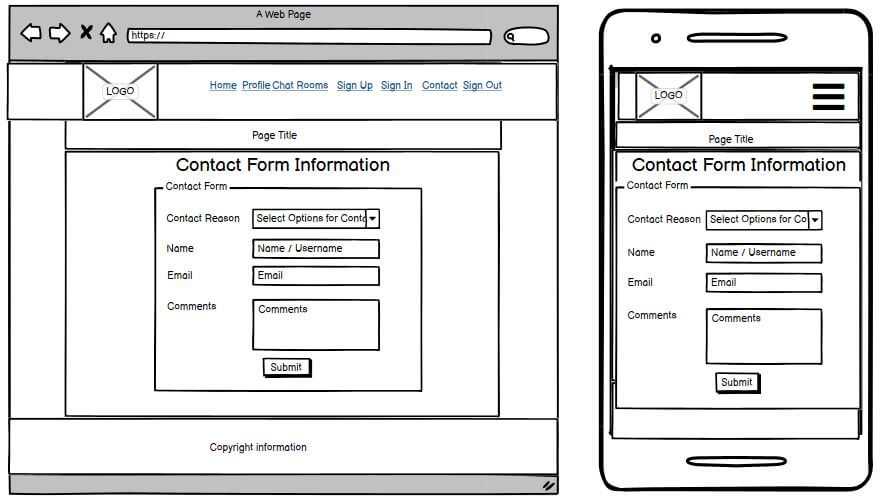
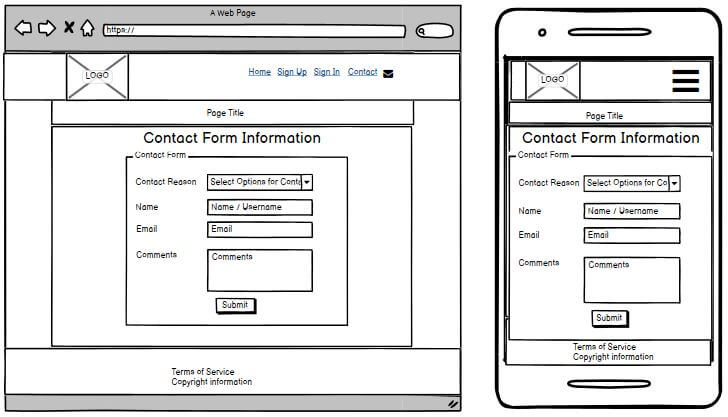
Documentation: Updated readme and added images

diff --git a/templates/500.html b/templates/500.html
@@ -8,7 +8,6 @@
                 <p class="main-text">Whoops, looks like something went wrong.<br>
                     Click <a class="anchors" href="{% url 'home' %}">here</a> to return to the main site.
                 </p>
-                <img src="{{ MEDIA_URL }}500.png" alt="500 image" id="error-img" class="img-fluid">
             </div>
         </div>
     </main>

diff --git a/README.md b/README.md
@@ -1,6 +1,7 @@
 # Chat To The Mat
 Chat To The Mat is an online chat service where users can create online friendships. A premium subscription service 
-is available to users that allows access to our 'Gold Rooms' and enables the private messaging functionality. The live website can be found [here](https://chat-to-the-mat.herokuapp.com/).
+is available to users that allows access to our 'Gold Rooms' and enables the private messaging functionality. The live website can be found [here](https://chat-to-the-mat.herokuapp.com/).<br>
+![Mockup](readme_images/mockup.png)
 
 ## Table of Contents
 * [User Experience Design (UX)](#User-Experience-Design)
@@ -18,7 +19,6 @@ is available to users that allows access to our 'Gold Rooms' and enables the pri
             * [Colour Scheme](#Colour-Scheme)
             * [Typography](#Typography)
             * [Imagery](#Imagery)
-    * [Differences to Design](#Differences-to-Design)
 - [Features](#Features)
     * [Existing Features](#Existing-Features)
     * [Future Features](#Features-Left-to-Implement)
@@ -26,7 +26,6 @@ is available to users that allows access to our 'Gold Rooms' and enables the pri
 * [Testing](#Testing)
     * [Test Strategy](#Test-Strategy)
     * [Test Results](#Test-Results)
-    * [Isses and Resolutions](#Issues-and-Resolutions-to-issues-found-during-testing)
 * [Deployment](#Deployment)
     * [Project Creation](#Project-Creation)
     * [Heroku Deployment](#Deployment-To-Heroku)
@@ -70,6 +69,7 @@ features and areas of the site that are available once a paid subscription has b
 * As a premium user, I want to be able to private chat with other members so that I can gain deeper friendships with selected users.
 * As a premium user, I want to be able to access other areas that are not available to non subscription members.
 * As a premium user, I want to be able to customize my profile with my own personal images so that I stand out.
+
 
 ### **The Scope Plane**
 
@@ -128,6 +128,8 @@ When a user is logged in, 'Profile', 'Chat Rooms' and 'Sign Out' navigation item
 
 Chat Rooms navigation link will be a drop down list with the chat room channels.
 
+A font awesome mail icon will be displayed to logged in users in order for them to access private messages they receive. If the user does not have a premium subscription, they will be redirected to the checkout.
+
 User Story:
 
 > As a user, I want to be able to chat with other users in the chatroom in a safe and moderated environment.
@@ -135,13 +137,17 @@ User Story:
 Acceptance Criteria:
 * Chat rooms for users to have conversations with other users.
 * Functionality to allow moderators to remove messages and ban users who break the terms of service.
+* Only admin users should be able to see the custom admin panel.
 
 Implementation:
 
 Chat rooms will be implemented with a form control to send messages. These chats will be stored in databases with 
 a maximum limit of 21. Once the limit is reached, the oldest message on the chat should be deleted.
 
-Admin users should have access to remove messages that make break the terms of service and the ability to ban users.
+Admin users should have access to remove messages that make break the terms of service directly from the chatroom, this can be done by clicking the X beside the chat message.
+
+Admin users will have the ability to ban users by navigating to the admin panel from their profile page and selecting the user from the list. 
+
 
 User Story:
 
@@ -167,7 +173,7 @@ Implementation:
 
 A contact page will be implemented with a form to allow users to contact staff. The form should clearly display if submission was successful or failed to send. 
 
-This will contain a drop down asking for the reason of contact. The options will be:
+The contact form will contain a drop down asking for the reason of contact. The options will be:
 * Breach of TOS
 * General Query
 * Technical Issue
@@ -177,7 +183,6 @@ Other fields will be:
 * Name (Username or Name)
 * Email
 * Comments
-
 
 User Story:
 
@@ -194,14 +199,14 @@ A profile page will be implemented that allows the user to update their informat
 * Name
 * Location
 * Bio
+* Img Url (For premium users only)
 
 These fields are optional if the user wants to update them. Once updated they will display to other users who view their profile.
 If the user is logged in and it is their own profile (accessed via the profile tab), a form will be displayed to allow the user 
 to update their profile. There will also be a button displayed to allow the user to delete their profile. This deletion will be 
 permanent so a warning must be displayed to the user that allows them to either cancel or delete the account.
 
-Users can view ther users profiles by clicking the users name on the chat room application. They should not have access to update 
-or delete that users profile.
+Users can view another users profiles by clicking the users name on the chat room application. They can view their own by either clicking the profile navigation or clicking their name directly from a chat room. Users should not have access to update or delete that users profile.
 
 User Story:
 
@@ -212,7 +217,7 @@ Acceptance Criteria:
 * Users who have not purchased a subscription should not be able to private message other users.
 
 Implementation:
-Private messaging functionality will be implemented to allow users with a premium subscription to message other premium users.
+Private messaging functionality will be implemented to allow users with a premium subscription to access the private messaging page to send or view messages.
 
 User Story:
 
@@ -226,39 +231,56 @@ Implementation:
 
 Non premium sucscription members will have access to two chat rooms, General Chat and Sports Chat.
 
-Premium subscription members will have access to 6 premium chat rooms.
+Premium subscription members will have access to view messages in premium chat rooms.
 
 User Story:
 
 > As a premium user, I want to be able to customize my profile with my own personal images so that I stand out.
 
 Acceptance Criteria:
-* Users who have purchased a subscription can upload profile pictures.
-* Users who have not purchased a subscription cannot upload profile pictures.
+* Users who have purchased a subscription can add custom profile pictures.
+* Users who have not purchased a subscription cannot upload profile pictures and will have a default picture.
 
 Implementation:
 
-Users who have a premium subscription will be able to upload their own profile pictures.
+Users who have a premium subscription will be able to add a url to display a profile picture of their own choice on the edit profile page.
+
 
 ### **The Skeleton Plane**
 #### Wireframes
-Home Page:<br>
+Home:<br>
 ![Home](readme_images/wireframes/home.jpg)<br>
 
-Contct Page:<br>
+Contct:<br>
 ![Contact](readme_images/wireframes/contact.jpg)<br>
 
 Profile:<br>
-Users own profile:<br>
-![User Profile](readme_images/wireframes/profile_user.jpg)<br>
-Profile to other users:<br>
-![User Profile](readme_images/wireframes/profile_non_user.jpg)<br>
+![User Profile](readme_images/wireframes/profile.jpg)<br>
+
+Edit Profile:<br>
+![Edit Profile](readme_images/wireframes/edit-profile.jpg)<br>
+
+Admin Panel:<br>
+![Admin panel](readme_images/wireframes/admin-panel.jpg)<br>
 
 Chat Rooms:<br>
-![Chat Rooms](readme_images/wireframes/chat_rooms.jpg)<br>
+![Chat Rooms](readme_images/wireframes/chat-rooms.jpg)<br>
+
+Checkout:<br>
+![Checkout](readme_images/wireframes/checkout.jpg)<br>
+
+Checkout Success:<br>
+![Checkout Success](readme_images/wireframes/checkout-success.jpg)<br>
+
+Sign In:<br>
+![Sign In](readme_images/wireframes/signin.jpg)<br>
+
+Chat Rooms:<br>
+![Sign Out](readme_images/wireframes/signout.jpg)<br>
 
 #### Database Design
-
+ER Diagram
+![ER Diagram](readme_images\er_diagram.png)
 
 #### Security 
 
@@ -267,17 +289,17 @@ Chat Rooms:<br>
 ### Design
 
 #### Colour Scheme
-
+The header and footer background colour is #353535. ![Header & Footer](readme_images/header-footer.png)<br>
+The main content background colour is #1b1b1b. ![Background](readme_images/background.png)<br>
+The heading text and anchor link colour throughout the website is #ff914d. ![Header & Link Text](readme_images/headings.png)<br>
+The main text colour is #eeeee7. ![Main text](readme_images/main-text.png)<br>
 
 #### Typography
-The main heading on all pages use the 'Orbitron' font while the 
+The headings on all pages use the 'Orbitron' font while the 
 rest of the websites content uses the 'Roboto' font.
 
 #### Imagery
-
-
-## Differences to Design
-
+Premium users custom profile pictures are added by url and rendered into an image tag. I do not own these images and did not upload them into the site.
 
 ****
 ## Features
@@ -300,6 +322,40 @@ rest of the websites content uses the 'Roboto' font.
     * This project was created using Python framework [Django](https://www.djangoproject.com/) following Model-View-Template design and 
     Object Relational Mapping.
     * Python Modules used (These can be found in the requirements.txt project file):
+        * asgiref==3.3.1
+        * autopep8==1.5.5
+        * boto3==1.16.59
+        * botocore==1.19.59
+        * certifi==2020.12.5
+        * cffi==1.14.4
+        * chardet==4.0.0
+        * cryptography==3.4.4
+        * defusedxml==0.6.0
+        * dj-database-url==0.5.0
+        * Django==3.1.5
+        * django-allauth==0.44.0
+        * django-crispy-forms==1.10.0
+        * django-storages==1.11.1
+        * gunicorn==20.0.4
+        * idna==2.10
+        * jmespath==0.10.0
+        * oauthlib==3.1.0
+        * psycopg2==2.8.6
+        * psycopg2-binary==2.8.6
+        * pycodestyle==2.6.0
+        * pycparser==2.20
+        * PyJWT==2.0.1
+        * python-dateutil==2.8.1
+        * python3-openid==3.2.0
+        * pytz==2020.5
+        * requests==2.25.1
+        * requests-oauthlib==1.3.0
+        * s3transfer==0.3.4
+        * six==1.15.0
+        * sqlparse==0.4.1
+        * stripe==2.55.1
+        * toml==0.10.2
+        * urllib3==1.26.2
 
 * [PostgreSQL](https://www.postgresql.org/)
     * PostgreSQL was used to create the relational databases used as data storage for this project.
@@ -320,7 +376,7 @@ rest of the websites content uses the 'Roboto' font.
 * [balsamiq Wireframes](https://balsamiq.com/wireframes/)
 	* This was used to create wireframes for 'The Skeleton Plane' stage of UX design.
 * [Canva](https://www.canva.com/)
-    * Canva design was used in order to create the website logo.
+    * Canva design was used in order to create the website logo and custom error images.
 * [Font Awesome](https://fontawesome.com/)
     * All the Icons displayed throughout the website are Font Awesome icons.
 * [Favicon](https://favicon.io/)
@@ -348,8 +404,7 @@ Python Code must pass through [PEP8 Validator](http://pep8online.com/)
 
 
 #### **Access Requirements**
-Tester must have access to MongoDB in order to manually verify the insertion 
-of records to users and events collections.
+Tester must have access to the Django Admin panel in order to manually verify the insertion of records into the databases.
 
 #### **Regression Testing**
 All features previous tested during development in a local environment must be regression 
@@ -370,18 +425,18 @@ Full test results can be found [here](TESTING.md)
 ## Deployment
 
 ### Project Creation
-To create this project I used the 'git init' command in the terminal from VS Code.
+To create this project I used the `git init` command in the terminal from VS Code.
 
-I then used the 'git add .' command followed by 'git commit -m "Initial commit"' and was then prompted to create a new repository 
+I then used the `git add .` command followed by `git commit -m "Initial commit"` and was then prompted to create a new repository 
 with the choices of public or private.
 
 The following commands were used for version control throughout the project:
 
-* git add *filename* - This command was used to add files to the staging area before committing.
+`git add <filename>` - This command was used to add files to the staging area before committing.
 
-* git commit -m "commit message explaining the updates" - This command was used to to commit changes to the local repository.
+`git commit -m "commit message explaining the updates"` - This command was used to to commit changes to the local repository.
 
-* git push - This command is used to push all committed changes to the GitHub repository.
+`git push` - This command is used to push all committed changes to the GitHub repository.
 
 
 ### Deployment to Heroku
@@ -435,7 +490,7 @@ for your own idea. - Definition from [Github Docs](https://docs.github.com/en/fr
 
 ### Code
 
-The Stripe payment was coded by following a [tutorial](https://www.youtube.com/watch?v=oZwyA9lUwRk) on youtube. This included the python 
+The Stripe payment was coded by following a [tutorial](https://testdriven.io/blog/django-stripe-subscriptions/). This included the python 
 code and the javascript. 
 
 ### Acknowledgements
